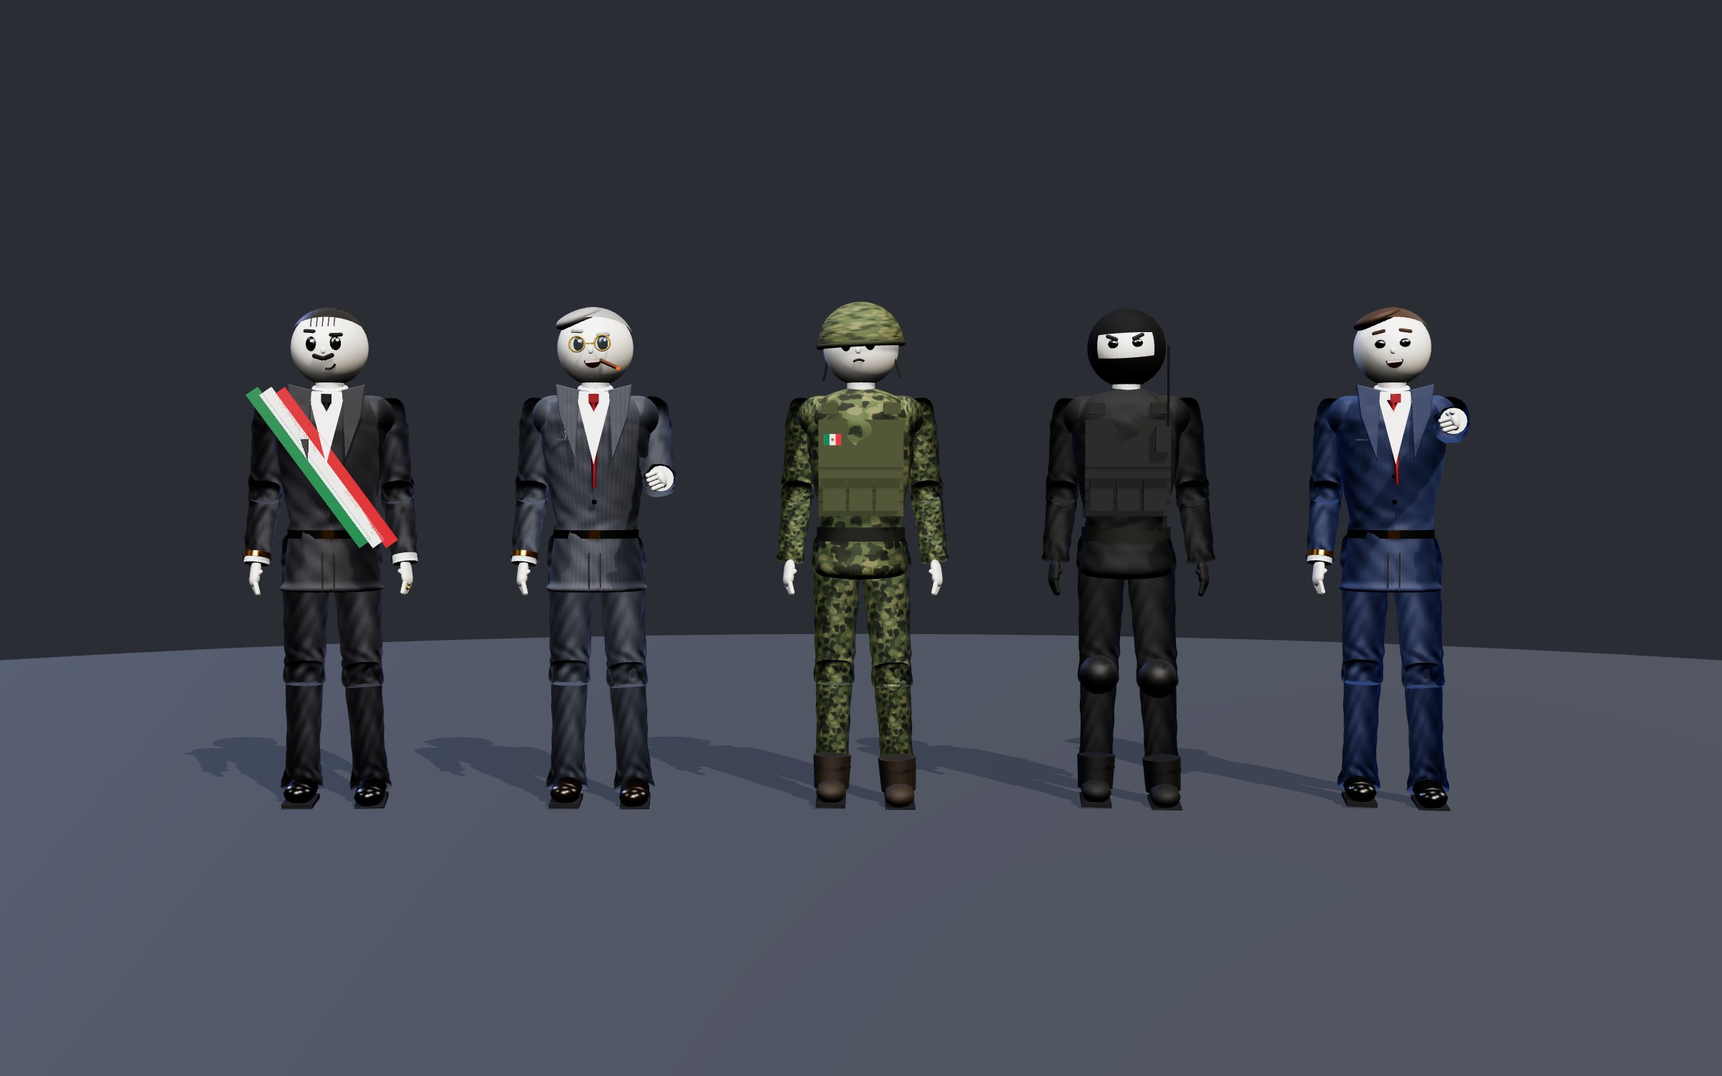
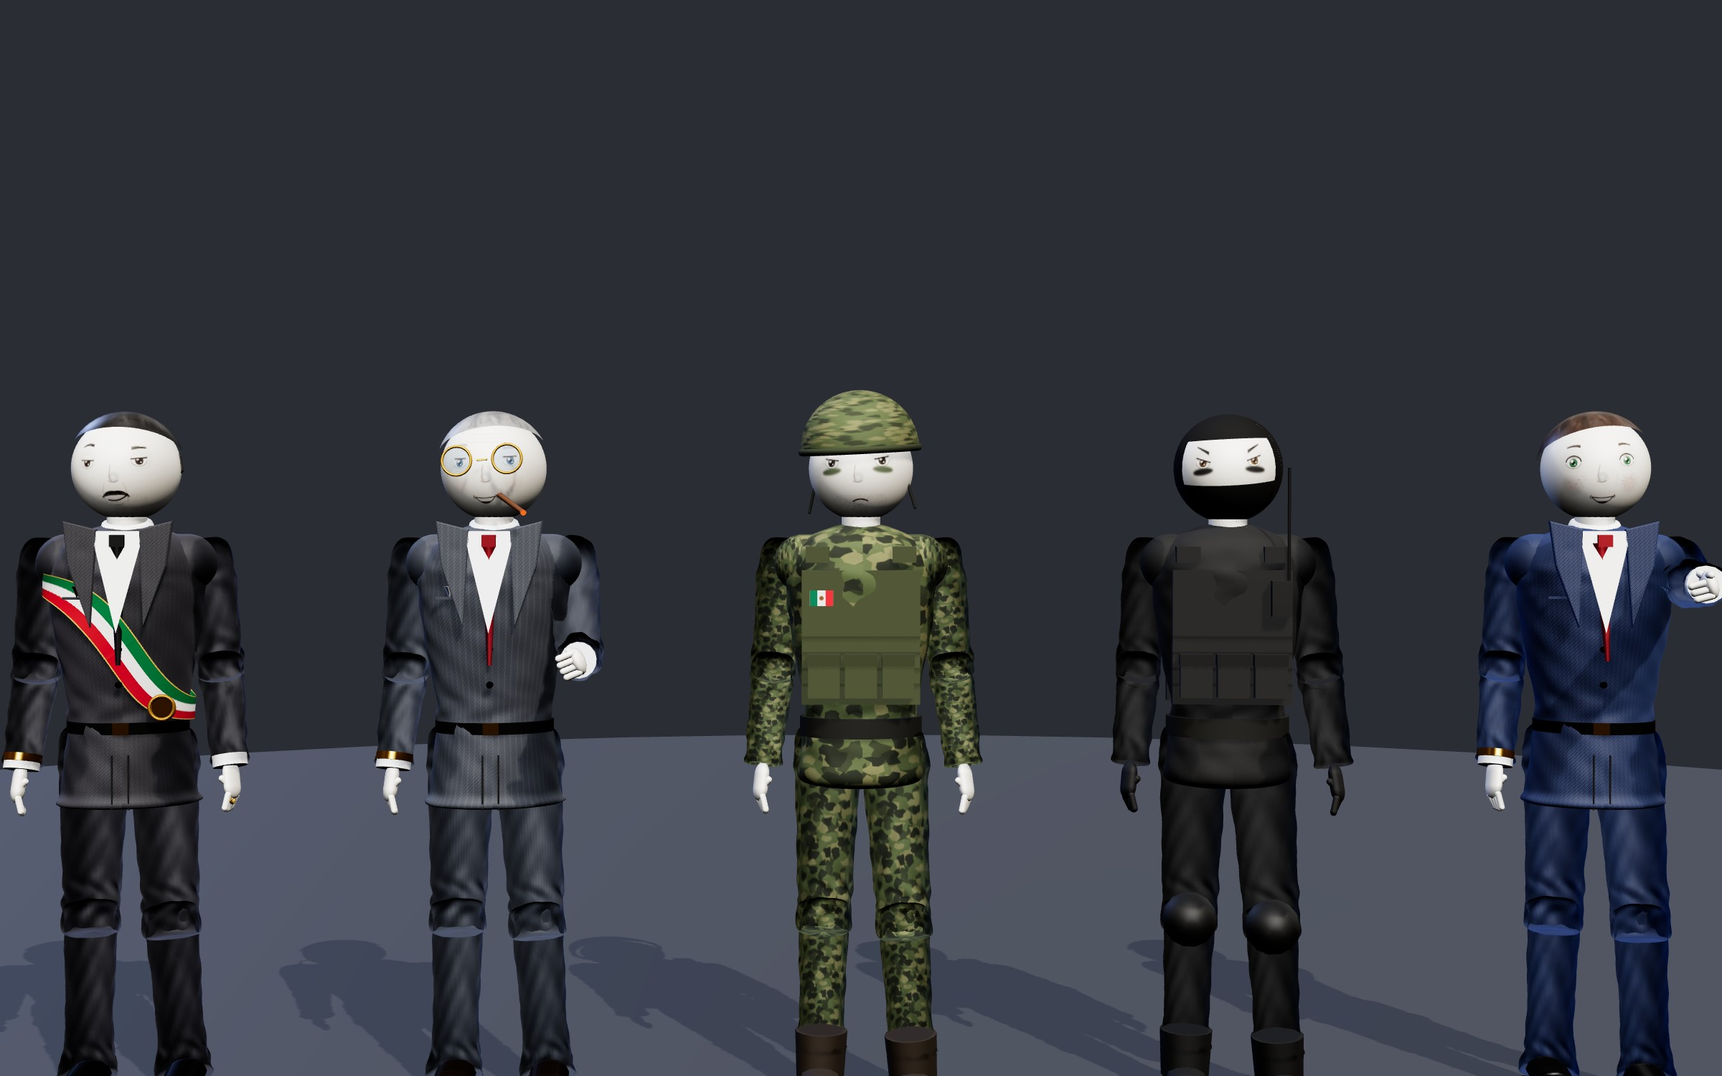
Characters: illustrated detailed faces, fixed president hair and presidential sash
Claude-Session: https://claude.ai/code/session_01WDrQiuAKGjVZNTyo2ws8iR

diff --git a/youtube-shorts/narco-estado/build/chars.js b/youtube-shorts/narco-estado/build/chars.js
@@ -54,6 +54,90 @@ function garment(profile, folds = [], seed = 1, segs = 40) {
   geo.computeVertexNormals(); return geo;
 }
 
+// --- illustrated faces: drawn on an equirectangular texture (front of head = u .25) ---
+const FACES = {
+  president: { iris: '#3b2414', lid: .36, tilt: .05, brow: 'smug', browC: '#17110c', bw: 15, mouth: 'smirk', mustache: true, stubble: .55, nasal: true },
+  executive: { iris: '#4f7396', lid: .22, tilt: 0, brow: 'smug', browC: '#9c9c9c', bw: 13, mouth: 'grin', wrinkles: true, blush: .12, mx: -10 },
+  soldier:   { iris: '#3a2a1a', lid: .32, tilt: .18, brow: 'stern', browC: '#2a1f16', bw: 15, mouth: 'frown', stubble: .8, paint: 'rgba(40,55,25,.75)' },
+  tactical:  { iris: '#6a4a22', lid: .34, tilt: .38, brow: 'angry', browC: '#120d0a', bw: 16, mouth: null, paint: 'rgba(10,10,10,.85)' },
+  narrator:  { iris: '#3c7a4a', lid: .04, tilt: 0, brow: 'raised', browC: '#3a2414', bw: 13, mouth: 'grin', blush: .22, freckles: true },
+};
+function faceTex(kind, closed) {
+  const F = FACES[kind], U = 326, CX = 512, CY = 512, ink = '#22140e';
+  return tex(2048, 1024, (g) => {
+    g.fillStyle = '#f4f1ea'; g.fillRect(0, 0, 2048, 1024); g.translate(CX, CY); g.scale(1.55, 1.55); g.translate(-CX, -CY);
+    let q = kind.length * 97; const rnd = () => (q = (q * 16807) % 2147483647) / 2147483647;
+    const ey = CY - 34, mx = CX + (F.mx ?? 6), my = CY + 122;
+    // soft facial shading: cheeks, under-brow, chin
+    const soft = (x, y, r, col) => { const gr = g.createRadialGradient(x, y, 0, x, y, r); gr.addColorStop(0, col); gr.addColorStop(1, 'rgba(0,0,0,0)'); g.fillStyle = gr; g.fillRect(x - r, y - r, 2 * r, 2 * r); };
+    for (const sx of [-1, 1]) soft(CX + sx * 110, ey - 10, 60, 'rgba(150,130,115,.16)');
+    soft(CX, my + 70, 60, 'rgba(150,130,115,.12)');
+    if (F.blush) for (const sx of [-1, 1]) soft(CX + sx * 118, CY + 62, 50, `rgba(235,120,110,${F.blush})`);
+    if (F.paint) for (const sx of [-1, 1]) { g.save(); g.filter = 'blur(6px)'; g.fillStyle = F.paint; g.beginPath(); g.ellipse(CX + sx * 108, ey + 38, 46, 14, sx * .12, 0, 7); g.fill(); g.restore(); }
+    if (F.stubble) { for (let i = 0; i < 2600; i++) { const a = rnd() * 6.28, rr = Math.sqrt(rnd()), x = CX + Math.cos(a) * rr * 150, y = my + 30 + Math.sin(a) * rr * 95;
+        if (y < my - 20) continue; g.fillStyle = `rgba(55,45,40,${F.stubble * (.15 + rnd() * .3)})`; g.fillRect(x, y, 1.6, 1.6); } }
+    if (F.freckles) for (let i = 0; i < 40; i++) { const sx = rnd() < .5 ? -1 : 1; g.fillStyle = 'rgba(170,110,80,.4)'; g.beginPath(); g.arc(CX + sx * (55 + rnd() * 80), CY + 20 + rnd() * 50, 1.5 + rnd() * 1.6, 0, 7); g.fill(); }
+    // eyes
+    for (const sx of [-1, 1]) {
+      const ex = CX + sx * 106, rx = 31, ry = 25;
+      if (closed) { g.strokeStyle = ink; g.lineWidth = 6; g.lineCap = 'round'; g.beginPath(); g.moveTo(ex - rx, ey + 2); g.quadraticCurveTo(ex, ey + 14, ex + rx, ey + 2); g.stroke();
+        g.lineWidth = 3; g.beginPath(); g.moveTo(ex + sx * rx, ey + 2); g.lineTo(ex + sx * (rx + 9), ey - 5); g.stroke(); continue; }
+      const yl = x => ey - ry + F.lid * 2 * ry + F.tilt * ry * ((x - ex) / rx) * -sx;
+      g.save(); g.beginPath(); g.ellipse(ex, ey, rx, ry, 0, 0, 7); g.clip();
+      const sg = g.createLinearGradient(0, ey - ry, 0, ey + ry); sg.addColorStop(0, '#cfc9c0'); sg.addColorStop(.45, '#ffffff'); sg.addColorStop(1, '#ece8e2');
+      g.fillStyle = sg; g.fillRect(ex - rx, ey - ry, 2 * rx, 2 * ry);
+      const iy = ey + 3, ig = g.createRadialGradient(ex, iy, 2, ex, iy, 17); ig.addColorStop(0, '#000'); ig.addColorStop(.35, F.iris); ig.addColorStop(.8, F.iris); ig.addColorStop(1, '#120a06');
+      g.fillStyle = ig; g.beginPath(); g.arc(ex, iy, 17, 0, 7); g.fill();
+      g.fillStyle = '#060606'; g.beginPath(); g.arc(ex, iy, 7.5, 0, 7); g.fill();
+      g.fillStyle = '#fff'; g.beginPath(); g.arc(ex - 6, iy - 7, 5.5, 0, 7); g.fill(); g.beginPath(); g.arc(ex + 6, iy + 6, 2.4, 0, 7); g.fill();
+      // upper lid (skin) with soft shadow line
+      g.fillStyle = '#f0ece4'; g.beginPath(); g.moveTo(ex - rx - 2, yl(ex - rx)); g.lineTo(ex + rx + 2, yl(ex + rx)); g.lineTo(ex + rx + 2, ey - ry - 4); g.lineTo(ex - rx - 2, ey - ry - 4); g.fill();
+      g.strokeStyle = 'rgba(60,40,30,.25)'; g.lineWidth = 9; g.beginPath(); g.moveTo(ex - rx, yl(ex - rx) + 4); g.lineTo(ex + rx, yl(ex + rx) + 4); g.stroke();
+      g.restore();
+      // outlines: thick upper lash line, thin lower lid, outer lash flick
+      g.strokeStyle = ink; g.lineCap = 'round'; g.lineWidth = 2.5; g.globalAlpha = .55; g.beginPath(); g.ellipse(ex, ey, rx, ry, 0, .15, Math.PI - .15); g.stroke(); g.globalAlpha = 1;
+      g.lineWidth = 6; g.beginPath();
+      if (F.lid > .06) { const hw = rx * Math.sqrt(Math.max(0, 1 - Math.pow((yl(ex) - ey) / ry, 2))); g.moveTo(ex - hw - 2, yl(ex - hw)); g.lineTo(ex + hw + 2, yl(ex + hw)); }
+      else g.ellipse(ex, ey, rx, ry, 0, Math.PI + .1, -.1);
+      g.stroke();
+      const ox = ex + sx * rx;
+      if (F.wrinkles) { g.lineWidth = 2; g.strokeStyle = 'rgba(80,60,50,.4)'; for (let k = -1; k <= 1; k++) { g.beginPath(); g.moveTo(ox + sx * 10, ey + k * 9); g.lineTo(ox + sx * 26, ey + k * 14); g.stroke(); }
+        g.beginPath(); g.ellipse(ex, ey + 30, 22, 6, 0, .2, Math.PI - .2); g.stroke(); }
+      // eyebrow: tapered, slightly hairy
+      const shapes = { smug: sx < 0 ? [-16, -30, -8] : [2, -4, 4], angry: [16, -2, -14], stern: [8, -2, -4], raised: [-14, -22, -6] }[F.brow];
+      const by = ey - 50, ix = ex - sx * 26, ox2 = ex + sx * 40, pts = [];
+      for (let t = 0; t <= 1; t += .05) { const x = ix + (ox2 - ix) * t, y = by + (1 - t) * (1 - t) * shapes[0] + 2 * (1 - t) * t * shapes[1] + t * t * shapes[2]; pts.push([x, y, F.bw * (1 - t * .65)]); }
+      g.fillStyle = F.browC; g.beginPath(); pts.forEach(([x, y, w]) => g.lineTo(x, y - w / 2)); [...pts].reverse().forEach(([x, y, w]) => g.lineTo(x, y + w / 2)); g.closePath(); g.fill();
+      g.strokeStyle = F.browC; g.lineWidth = 1.5; for (let i = 0; i < 40; i++) { const [x, y, w] = pts[Math.floor(rnd() * (pts.length - 1))]; g.beginPath(); g.moveTo(x, y + w / 2); g.lineTo(x + sx * 7, y - w / 2 - 2); g.stroke(); }
+    }
+    if (F.wrinkles) { g.strokeStyle = 'rgba(80,60,50,.3)'; g.lineWidth = 2.5; for (let k = 0; k < 3; k++) { g.beginPath(); g.moveTo(CX - 90, CY - 150 + k * 18); g.bezierCurveTo(CX - 30, CY - 158 + k * 18, CX + 30, CY - 142 + k * 18, CX + 90, CY - 150 + k * 18); g.stroke(); } }
+    // nose
+    if (F.mouth !== null) { g.strokeStyle = 'rgba(110,85,70,.5)'; g.lineWidth = 4; g.lineCap = 'round';
+      g.beginPath(); g.moveTo(CX - 4, CY - 20); g.quadraticCurveTo(CX - 18, CY + 30, CX - 6, CY + 44); g.stroke();
+      g.beginPath(); g.moveTo(CX - 18, CY + 44); g.quadraticCurveTo(CX, CY + 54, CX + 18, CY + 44); g.stroke();
+      soft(CX + 4, CY + 30, 26, 'rgba(255,255,255,.5)'); }
+    if (F.nasal) { g.strokeStyle = 'rgba(110,85,70,.3)'; g.lineWidth = 3; for (const sx of [-1, 1]) { g.beginPath(); g.moveTo(CX + sx * 36, CY + 52); g.quadraticCurveTo(CX + sx * 58, CY + 95, CX + sx * 52, my + 18); g.stroke(); } }
+    // mouth
+    g.lineCap = 'round';
+    if (F.mouth === 'smirk') { g.strokeStyle = '#3a1a14'; g.lineWidth = 7; g.beginPath(); g.moveTo(mx - 42, my + 4); g.quadraticCurveTo(mx + 2, my + 18, mx + 44, my - 14); g.stroke();
+      g.lineWidth = 3; g.beginPath(); g.moveTo(mx + 46, my - 22); g.quadraticCurveTo(mx + 54, my - 12, mx + 48, my - 4); g.stroke();
+      g.strokeStyle = 'rgba(120,80,70,.35)'; g.lineWidth = 5; g.beginPath(); g.moveTo(mx - 16, my + 30); g.quadraticCurveTo(mx + 4, my + 36, mx + 22, my + 26); g.stroke(); }
+    if (F.mouth === 'frown') { g.strokeStyle = '#3a1a14'; g.lineWidth = 7; g.beginPath(); g.moveTo(mx - 36, my + 12); g.quadraticCurveTo(mx, my - 8, mx + 36, my + 12); g.stroke();
+      g.strokeStyle = 'rgba(120,80,70,.35)'; g.lineWidth = 4; g.beginPath(); g.moveTo(mx - 14, my + 30); g.quadraticCurveTo(mx, my + 25, mx + 14, my + 30); g.stroke(); }
+    if (F.mouth === 'grin') { const w = 48;
+      g.beginPath(); g.moveTo(mx - w, my - 10); g.quadraticCurveTo(mx, my + 2, mx + w, my - 10); g.quadraticCurveTo(mx, my + 56, mx - w, my - 10); g.closePath();
+      g.save(); g.clip(); g.fillStyle = '#5a1418'; g.fillRect(mx - w, my - 20, 2 * w, 80);
+      g.fillStyle = '#fbfaf6'; g.beginPath(); g.moveTo(mx - w, my - 14); g.quadraticCurveTo(mx, my - 2, mx + w, my - 14); g.lineTo(mx + w, my + 6); g.quadraticCurveTo(mx, my + 20, mx - w, my + 6); g.fill();
+      g.strokeStyle = 'rgba(0,0,0,.15)'; g.lineWidth = 1.5; for (let k = -3; k <= 3; k++) { g.beginPath(); g.moveTo(mx + k * 12, my - 6); g.lineTo(mx + k * 12, my + 12); g.stroke(); }
+      g.fillStyle = '#d0606a'; g.beginPath(); g.ellipse(mx, my + 38, 24, 12, 0, 0, 7); g.fill(); g.restore();
+      g.strokeStyle = '#3a1a14'; g.lineWidth = 4.5; g.beginPath(); g.moveTo(mx - w, my - 10); g.quadraticCurveTo(mx, my + 2, mx + w, my - 10); g.quadraticCurveTo(mx, my + 56, mx - w, my - 10); g.stroke();
+      g.lineWidth = 3; for (const sx of [-1, 1]) { g.beginPath(); g.moveTo(mx + sx * (w + 2), my - 18); g.quadraticCurveTo(mx + sx * (w + 9), my - 9, mx + sx * (w + 3), my - 1); g.stroke(); } }
+    if (F.mustache) { const y = my - 18; g.fillStyle = '#17110c'; g.beginPath(); g.moveTo(CX - 66, y + 14);
+      g.quadraticCurveTo(CX - 40, y - 26, CX, y - 18); g.quadraticCurveTo(CX + 40, y - 26, CX + 66, y + 14); g.quadraticCurveTo(CX + 36, y - 2, CX, y + 2); g.quadraticCurveTo(CX - 36, y - 2, CX - 66, y + 14); g.fill();
+      g.strokeStyle = 'rgba(255,255,255,.12)'; g.lineWidth = 1.5; for (let i = 0; i < 70; i++) { const x = CX + (rnd() - .5) * 110; g.beginPath(); g.moveTo(x, y - 12 + rnd() * 6); g.lineTo(x + (x - CX) * .15, y + 4); g.stroke(); } }
+  });
+}
+
 // --- outfits & personalities ---
 const LOOKS = {
   president: { suit: 0x101014, tex: fabric('#16161b', 'rgba(255,255,255,.04)'), shirt: 0xf4f4f4, tie: 0x0c0c0c, shoes: 0x060606,
@@ -75,52 +159,33 @@ function onHead(head, R, obj, u, v, push = 0, rz = 0) {
 }
 
 function face(head, R, L, rig) {
-  const ink = std(0x111111, { roughness: .15 }), browM = std(L.hairColor ?? 0x1a1a1a, { roughness: .8 });
-  rig.eyes = [];
-  for (const s of [-1, 1]) {
-    const eye = new THREE.Group();
-    const ball = add(eye, new THREE.SphereGeometry(R * .15, 24, 16), ink); ball.scale.set(1, 1.3, .45);
-    add(eye, new THREE.SphereGeometry(R * .045, 10, 8), new THREE.MeshBasicMaterial({ color: 0xffffff }), R * .05, R * .07, R * .06);
-    onHead(head, R, eye, s * .32, .1, -.004); rig.eyes.push(eye);
-    if (!L.balaclava || true) {
-      const moods = { smug: s < 0 ? [.42, -.2] : [.3, .05], angry: [.25, s * .42], stern: [.27, s * .18], raised: [.4, -s * .12] };
-      const [bv, rz] = moods[L.brows];
-      const brow = new THREE.Group(); const b = add(brow, cap(R * .05, R * .26, 8), browM); b.rotation.z = Math.PI / 2; b.scale.set(1, 1, .6);
-      onHead(head, R, brow, s * .33, bv, .004, rz); (rig.brows ??= []).push(brow);
-    }
-  }
-  // nose
-  if (!L.balaclava) add(head, new THREE.SphereGeometry(R * .08, 16, 12), head.material, 0, -R * .08, R * .97).scale.set(1, 1.2, .8);
-  // mouth
-  const mouth = new THREE.Group(), lip = std(0x2a1414, { roughness: .4 });
-  if (L.mouth === 'smirk') { const a = add(mouth, new THREE.TorusGeometry(R * .2, R * .03, 8, 24, 1.6), lip); a.rotation.z = -Math.PI / 2 - .5; onHead(head, R, mouth, .08, -.38, 0, .12); }
-  if (L.mouth === 'frown') { const a = add(mouth, new THREE.TorusGeometry(R * .2, R * .03, 8, 24, 1.5), lip); a.rotation.z = Math.PI / 2 - .75; onHead(head, R, mouth, 0, -.5); }
-  if (L.mouth === 'grin') {
-    add(mouth, new THREE.CircleGeometry(R * .22, 24, Math.PI, Math.PI), std(0x3a0d0d, { side: THREE.DoubleSide }));
-    add(mouth, new THREE.PlaneGeometry(R * .38, R * .07), std(0xffffff, { roughness: .3 }), 0, -R * .035, .001);
-    onHead(head, R, mouth, .03, -.33, .002, .05);
-  }
-  if (L.mustache) for (const s of [-1, 1]) { const m = new THREE.Group(); const c = add(m, cap(R * .06, R * .2, 8), std(0x15110e, { roughness: .9 })); c.rotation.z = Math.PI / 2 + s * .35; c.scale.z = .6; onHead(head, R, m, s * .12, -.24, .01); }
+  // painted, illustrated face (open + blink textures) on the porcelain head
+  const open = faceTex(rig.kind, false), shut = faceTex(rig.kind, true);
+  head.material = new THREE.MeshPhysicalMaterial({ map: open, roughness: .45, clearcoat: .3, clearcoatRoughness: .45 });
+  rig.faceTex = { open, shut };
   if (L.cigar) { const g = new THREE.Group(); const c = add(g, new THREE.CylinderGeometry(R * .05, R * .055, R * .9, 12), std(0x5a3418, { roughness: .9 })); c.rotation.x = Math.PI / 2; c.position.z = R * .4;
     add(g, new THREE.CylinderGeometry(R * .052, R * .052, R * .06, 12), new THREE.MeshBasicMaterial({ color: 0xff5a10 }), 0, 0, R * .86).rotation.x = Math.PI / 2;
-    onHead(head, R, g, .2, -.36, -.01, 0); g.rotateY(.5); rig.cigar = g; }
+    onHead(head, R, g, .2, -.5, -.01, 0); g.rotateY(.5); rig.cigar = g; }
   if (L.glasses) { const gold = std(0xd4a537, { metalness: 1, roughness: .25 }), gl = new THREE.Group();
-    for (const s of [-1, 1]) { add(gl, new THREE.TorusGeometry(R * .2, R * .022, 8, 28), gold, s * R * .33, 0, 0);
-      add(gl, new THREE.CircleGeometry(R * .19, 24), new THREE.MeshPhysicalMaterial({ color: 0x88aacc, transparent: true, opacity: .25, roughness: 0, metalness: .2 }), s * R * .33, 0, 0); }
+    for (const s of [-1, 1]) { add(gl, new THREE.TorusGeometry(R * .27, R * .025, 8, 32), gold, s * R * .47, 0, 0);
+      add(gl, new THREE.CircleGeometry(R * .26, 24), new THREE.MeshPhysicalMaterial({ color: 0x88aacc, transparent: true, opacity: .25, roughness: 0, metalness: .2 }), s * R * .47, 0, 0); }
     add(gl, new THREE.BoxGeometry(R * .2, R * .03, R * .03), gold);
-    onHead(head, R, gl, 0, .08, R * .12); }
-  if (L.hair) { const hm = std(L.hairColor, { roughness: .55 });
+    onHead(head, R, gl, 0, .16, R * .2); }
+  if (L.hair) { const base = '#' + new THREE.Color(L.hairColor).getHexString();
+    const hm = std(0xffffff, { roughness: .45, map: tex(512, 256, (g, w, h) => { g.fillStyle = base; g.fillRect(0, 0, w, h); let q = 7; const r = () => (q = (q * 16807) % 2147483647) / 2147483647;
+      for (let i = 0; i < 900; i++) { const x = r() * w, l = 40 + r() * 140; g.strokeStyle = r() < .5 ? 'rgba(255,255,255,' + (.04 + r() * .1) + ')' : 'rgba(0,0,0,' + (.1 + r() * .2) + ')'; g.lineWidth = 1 + r() * 2;
+        g.beginPath(); g.moveTo(x, r() * h * .3); g.quadraticCurveTo(x + (r() - .5) * 20, h * .5, x + (r() - .5) * 30, l + h * .3); g.stroke(); } }) });
     const h = add(head, new THREE.SphereGeometry(R * 1.06, 40, 20, 0, Math.PI * 2, 0, Math.PI * .4), hm); h.rotation.x = -.5; h.scale.set(1, 1, 1.04);
-    if (L.hair === 'side') { const q = add(head, new THREE.SphereGeometry(R * .5, 20, 12), hm, -R * .35, R * .78, R * .3); q.scale.set(1.3, .45, 1); q.rotation.z = .3; }
-    if (L.hair === 'slick') for (let i = -2; i <= 2; i++) { const st = add(head, new THREE.TorusGeometry(R * 1.04, R * .012, 4, 30, 1.6), std(0x2a221c)); st.rotation.set(0, Math.PI / 2, 0); st.position.x = i * R * .15; st.rotation.z = 1.0; } }
+    if (L.hair === 'side') { h.rotation.z = .12; h.scale.set(1.02, 1.03, 1.05); }
+    if (L.hair === 'slick') { h.scale.set(1.01, 1.02, 1.05); for (const sx of [-1, 1]) { const sb = add(head, cap(R * .07, R * .25, 8), hm, sx * R * .96, R * .05, -R * .08); sb.scale.z = .5; sb.rotation.z = sx * .1; } } }
   if (L.helmet) { const hm = new THREE.MeshStandardMaterial({ map: camoTex(['#4b5532', '#2f3520', '#6b6a45']), roughness: .9 });
-    const h = add(head, new THREE.SphereGeometry(R * 1.14, 36, 18, 0, Math.PI * 2, 0, Math.PI * .5), hm, 0, R * .08, 0);
-    add(head, new THREE.TorusGeometry(R * 1.12, R * .07, 8, 40), std(0x2f3520, { roughness: .9 }), 0, R * .08, 0).rotation.x = Math.PI / 2;
+    const h = add(head, new THREE.SphereGeometry(R * 1.14, 36, 18, 0, Math.PI * 2, 0, Math.PI * .5), hm, 0, R * .36, 0);
+    add(head, new THREE.TorusGeometry(R * 1.12, R * .07, 8, 40), std(0x2f3520, { roughness: .9 }), 0, R * .36, 0).rotation.x = Math.PI / 2;
     if (L.strap) for (const s of [-1, 1]) { const st = add(head, cap(R * .03, R * .9, 6), std(0x1d1d14)); st.position.set(s * R * .9, -R * .35, R * .2); st.rotation.z = s * .25; } }
   if (L.balaclava) { const bm = std(0x0f0f0f, { roughness: 1, map: fabric('#111111', 'rgba(255,255,255,.04)', 4) });
-    add(head, new THREE.SphereGeometry(R * 1.04, 36, 18, 0, Math.PI * 2, 0, Math.PI * .4), bm).rotation.x = -.05;          // top
-    const low = add(head, new THREE.SphereGeometry(R * 1.04, 36, 18, 0, Math.PI * 2, Math.PI * .55, Math.PI * .45), bm); low.rotation.x = .12; // lower face
-    for (const s of [-1, 1]) add(head, new THREE.SphereGeometry(R * 1.035, 20, 6, Math.PI / 2 + s * 1.15 - .35, .7, Math.PI * .38, Math.PI * .2), bm); // side band
+    add(head, new THREE.SphereGeometry(R * 1.04, 36, 18, 0, Math.PI * 2, 0, Math.PI * .33), bm).rotation.x = -.05;          // top
+    const low = add(head, new THREE.SphereGeometry(R * 1.04, 36, 18, 0, Math.PI * 2, Math.PI * .56, Math.PI * .44), bm); low.rotation.x = .1; // lower face
+    for (const s of [-1, 1]) add(head, new THREE.SphereGeometry(R * 1.035, 20, 6, Math.PI / 2 + s * 1.3 - .3, .6, Math.PI * .3, Math.PI * .3), bm); // side band
   }
 }
 
@@ -181,9 +246,16 @@ export function stickman(kind) {
     if (L.radio) { add(root, new THREE.BoxGeometry(.05, .09, .04), std(0x0a0a0a), .12, 1.3, .14); add(root, new THREE.CylinderGeometry(.004, .004, .3), std(0x050505), .14, 1.48, .13); }
     if (L.patch) { const p = add(root, new THREE.PlaneGeometry(.06, .04), new THREE.MeshStandardMaterial({ map: tex(60, 40, g => { ['#006847', '#eee', '#ce1126'].forEach((c, i) => { g.fillStyle = c; g.fillRect(i * 20, 0, 20, 40); }); g.fillStyle = '#7b4b1f'; g.beginPath(); g.arc(30, 20, 6, 0, 7); g.fill(); }) }), -.1, 1.3, .127); }
   }
-  if (L.sash) { const cols = [0x0b6b3a, 0xf2f2f2, 0xb3121b];
-    cols.forEach((c, i) => { const b = add(root, new THREE.BoxGeometry(.05, .66, .02), std(c, { roughness: .45 }), -.015 + (i - 1) * .046, 1.2, .132); b.rotation.z = .62; });
-    const med = add(root, new THREE.CylinderGeometry(.035, .035, .01, 24), std(0xd4a537, { metalness: 1, roughness: .2 }), .12, .98, .13); med.rotation.x = Math.PI / 2; }
+  if (L.sash) {
+    const st = tex(16, 120, (g, w, h) => { [['#c9a040', 0, 4], ['#0b6b3a', 4, 38], ['#f2f2f2', 42, 36], ['#b3121b', 78, 38], ['#c9a040', 116, 4]].forEach(([c, y, hh]) => { g.fillStyle = c; g.fillRect(0, y, w, hh); }); });
+    st.repeat.set(1, 1);
+    const geo = new THREE.CylinderGeometry(.2, .2, .1, 96, 1, true).rotateZ(-.95).translate(0, 1.17, 0), pp = geo.attributes.position;
+    const rAt = y => { for (let i = 1; i < prof.length; i++) { const [r0, y0] = prof[i - 1], [r1, y1] = prof[i]; if (y <= y1 && y >= y0) return r0 + (r1 - r0) * (y - y0) / (y1 - y0); } return .15; };
+    for (let i = 0; i < pp.count; i++) { const x = pp.getX(i), y = pp.getY(i), z = pp.getZ(i), a = Math.atan2(z, x), r = rAt(y) + .016; pp.setX(i, Math.cos(a) * r); pp.setZ(i, Math.sin(a) * r); }
+    geo.computeVertexNormals();
+    const band = new THREE.Mesh(geo, std(0xffffff, { map: st, roughness: .5, side: THREE.DoubleSide })); band.castShadow = true; torso.add(band);
+    const med = add(root, new THREE.CylinderGeometry(.03, .03, .012, 24), std(0xd4a537, { metalness: 1, roughness: .2 }), .105, 1.02, .118); med.rotation.x = Math.PI / 2;
+    add(root, new THREE.TorusGeometry(.03, .005, 6, 24), std(0xb08020, { metalness: 1, roughness: .3 }), .105, 1.02, .125); }
   // arms
   const handMat = L.gloves ? std(0x111111, { roughness: .7 }) : skin;
   for (const s of [-1, 1]) {
@@ -220,7 +292,7 @@ export function stickman(kind) {
   rig.relax();
   const blinkPh = kind.length * .73;
   rig.tick = t => { const q = (t + blinkPh) % 3.4; const k = q < .13 ? Math.abs(Math.cos(q / .13 * Math.PI)) * .9 + .1 : 1;
-    rig.eyes.forEach(e => e.scale.y = k); torso.scale.x = 1 + Math.sin(t * 2.2) * .008; };
+    head.material.map = k < .5 ? rig.faceTex.shut : rig.faceTex.open; torso.scale.x = 1 + Math.sin(t * 2.2) * .008; };
   rig.setHand = (side, pose) => rig[side === 'r' ? 'rArm' : 'lArm'].end.userData.setPose(pose);
   root.traverse(o => { if (o.isMesh) o.castShadow = true; });
   return rig;

diff --git a/youtube-shorts/narco-estado/build/preview.html b/youtube-shorts/narco-estado/build/preview.html
@@ -16,7 +16,9 @@ const rigs = kinds.map((k, i) => { const m = stickman(k); m.root.position.x = (i
 rigs[4].rArm.a.rotation.set(-1.4, 0, -.1); rigs[4].setHand('r', 'point');
 rigs[1].rArm.a.rotation.set(-.5, 0, .1); rigs[1].rArm.b.rotation.x = -1.1; rigs[1].setHand('r', 'fist');
 const cam = new THREE.PerspectiveCamera(30, W / H, .1, 50);
-window.shot = mode => { if (mode === 'full') { cam.position.set(0, 1.15, 7.2); cam.lookAt(0, .95, 0); } else { cam.position.set(0, 1.55, 5.2); cam.lookAt(0, 1.45, 0); cam.fov = 30; cam.updateProjectionMatrix(); }
+window.shot = mode => { if (mode === 'heads') { r.setScissorTest(true); const c2 = new THREE.PerspectiveCamera(22, (W / 5) / H * 2, .1, 20);
+    rigs.forEach((m, i) => { const x = m.root.position.x; c2.position.set(x + .05, 1.66, .95); c2.lookAt(x, 1.6, 0); r.setViewport(i * W / 5, H / 4, W / 5, H / 2); r.setScissor(i * W / 5, H / 4, W / 5, H / 2); r.render(s, c2); });
+    r.setScissorTest(false); return; } else if (mode === 'full') { cam.position.set(0, 1.15, 7.2); cam.lookAt(0, .95, 0); } else { cam.position.set(0, 1.55, 5.2); cam.lookAt(0, 1.45, 0); cam.fov = 30; cam.updateProjectionMatrix(); }
   if (new URLSearchParams(location.search).get('ao')) { const c = new EffectComposer(r); c.addPass(new RenderPass(s, cam)); const ao = new GTAOPass(s, cam, W, H); ao.blendIntensity = 1; c.addPass(ao); c.addPass(new OutputPass()); c.render(); } else r.render(s, cam); };
 window.ready = true;
 </script></body></html>

diff --git a/youtube-shorts/narco-estado/build/preview.js b/youtube-shorts/narco-estado/build/preview.js
@@ -2,5 +2,5 @@ const { chromium } = require('playwright');
 (async () => { const b = await chromium.launch({ args: ['--use-angle=swiftshader', '--enable-unsafe-swiftshader'] });
   const p = await b.newPage({ viewport: { width: 2400, height: 1500 } }); p.on('pageerror', e => console.log('ERR', e.message)); p.on('console', m => console.log(m.text()));
   const q = process.argv[2] || ''; await p.goto('http://127.0.0.1:8765/preview.html' + q); await p.waitForFunction(() => window.ready, null, { timeout: 60000 });
-  for (const m of ['full', 'faces']) { await p.evaluate(m => shot(m), m); await p.screenshot({ path: `preview_${m}${process.argv[3] || ''}.jpg`, quality: 90, type: 'jpeg' }); }
+  for (const m of ['full', 'faces', 'heads']) { await p.evaluate(m => shot(m), m); await p.screenshot({ path: `preview_${m}${process.argv[3] || ''}.jpg`, quality: 90, type: 'jpeg' }); }
   await b.close(); })();
